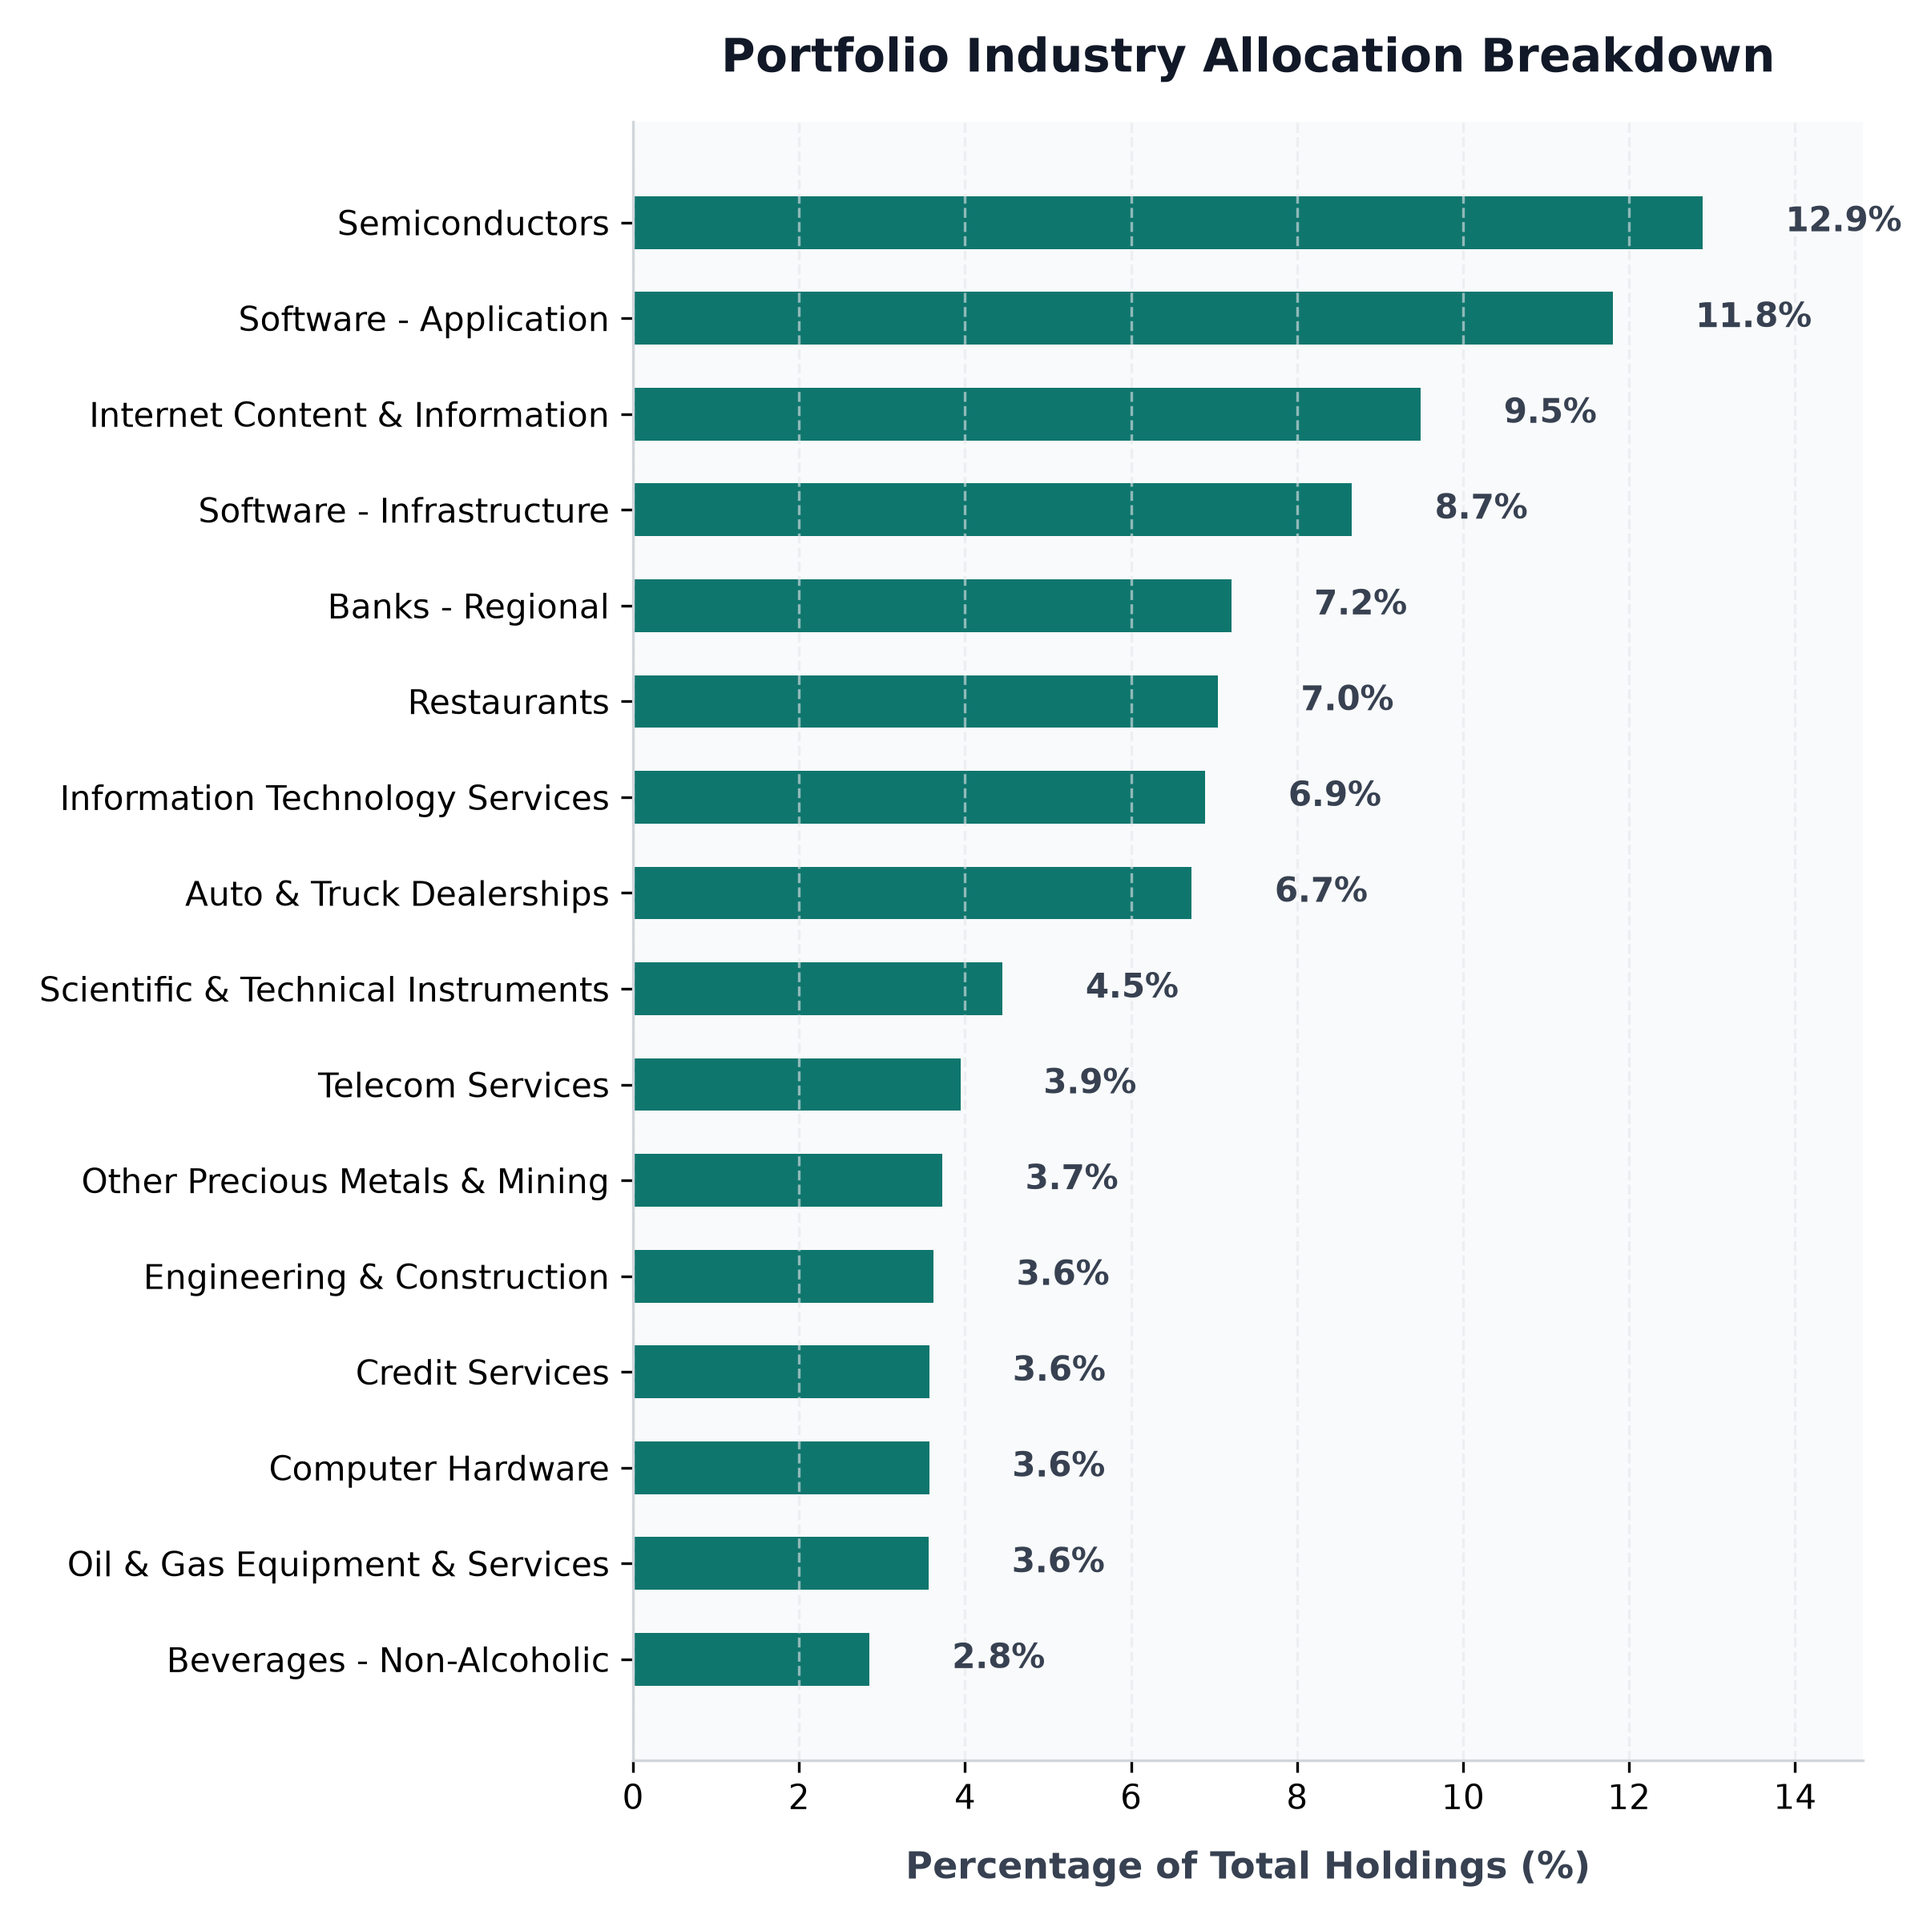
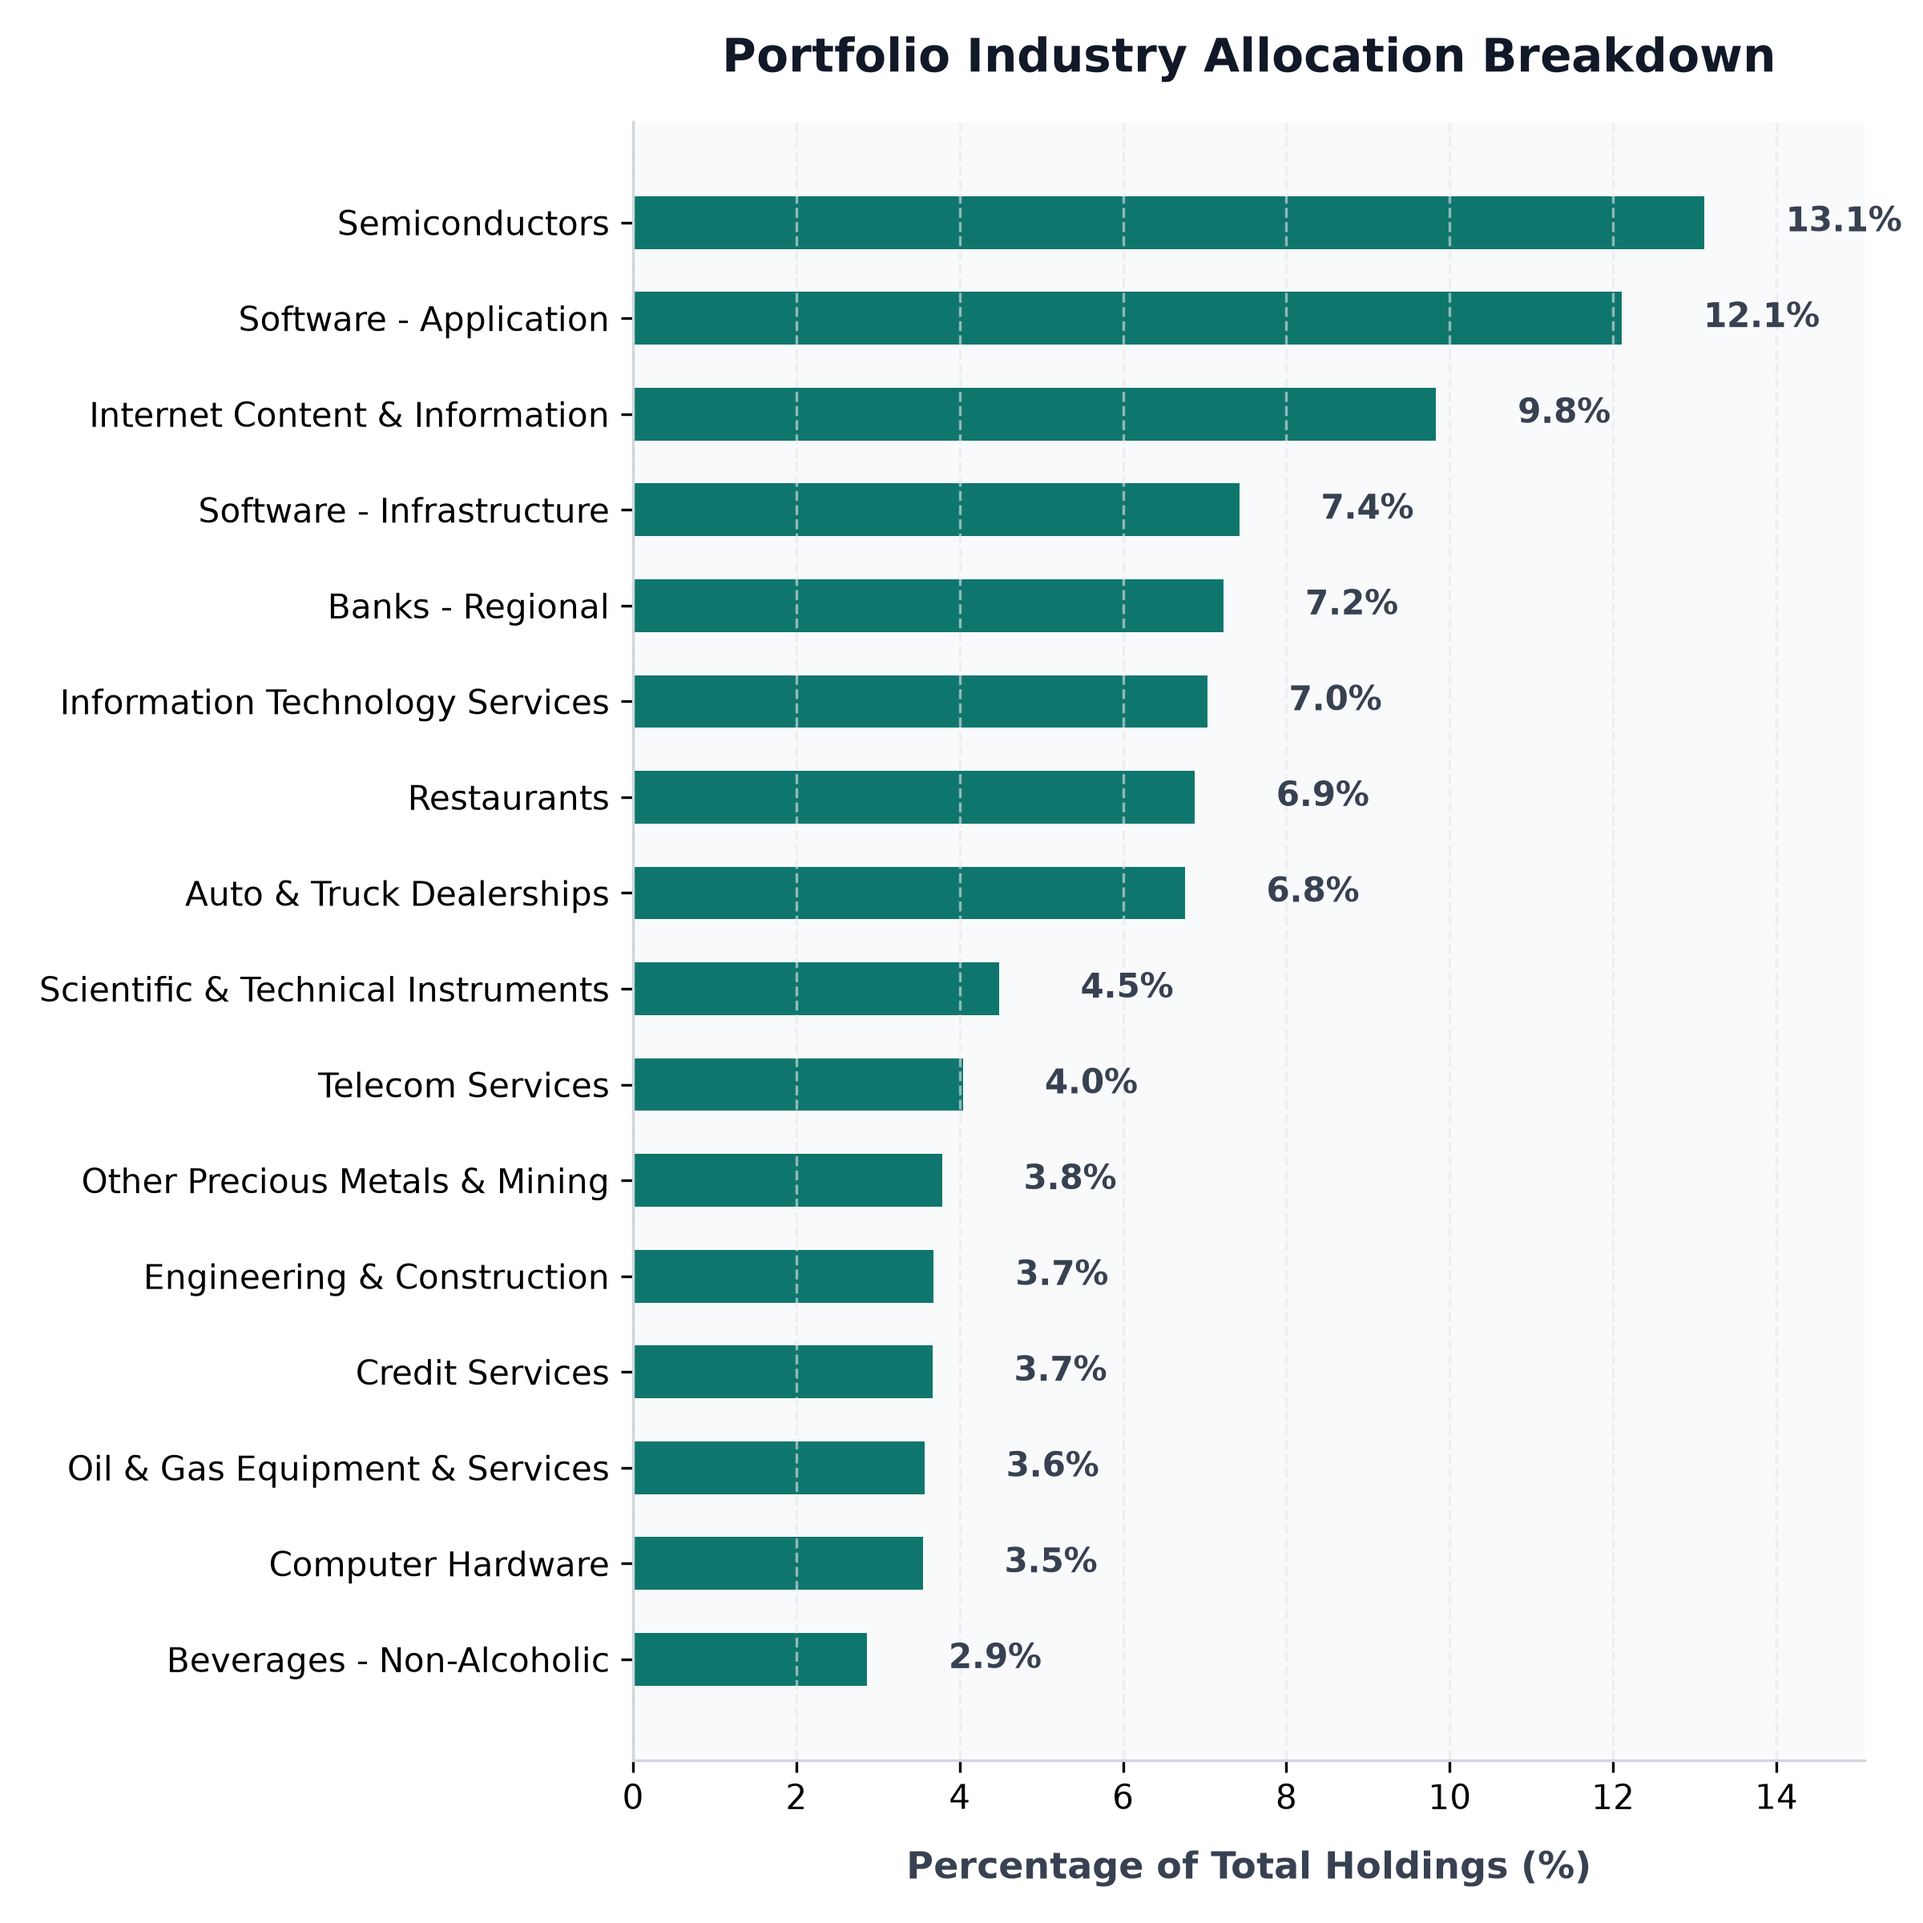
auto: daily portfolio status update - 2026-08-07 06:05:13

diff --git a/src/content/posts/portfolio-performance.md b/src/content/posts/portfolio-performance.md
@@ -1,6 +1,6 @@
 ---
 title: "BadOmen Algorithmic Portfolio Performance & PnL Report"
-pubDatetime: 2026-08-07T00:00:14.408216+08:00
+pubDatetime: 2026-08-07T06:05:13.153862+08:00
 description: "Live performance metrics, active holdings, and historic equity curve for the BadOmen automated paper trading portfolio."
 featured: true
 draft: false
@@ -16,11 +16,11 @@ Welcome to the live performance dashboard for **BadOmen**, our automated algorit
 ## 📊 Portfolio Summary
 | Performance Metric | Value | description |
 | :--- | :--- | :--- |
-| **Net Portfolio Equity** | **$100,334.39** | Total current liquidation value of cash and stock holdings |
-| **Total Unrealized P&L** | 🔴 **$-142.86** (-0.14%) | Total return of current open holdings |
-| **Cash Balance** | $72,278.40 | Idle reserve currency available for limit orders |
-| **Buying Power** | $367,670.38 | Margin-backed buying power for entry allocations |
-| **Report Updated** | `2026-08-07 00:00:14 (SGT)` | Timestamp of daily execution and sync run |
+| **Net Portfolio Equity** | **$100,214.28** | Total current liquidation value of cash and stock holdings |
+| **Total Unrealized P&L** | 🔴 **$-363.90** (-0.36%) | Total return of current open holdings |
+| **Cash Balance** | $72,667.60 | Idle reserve currency available for limit orders |
+| **Buying Power** | $367,801.10 | Margin-backed buying power for entry allocations |
+| **Report Updated** | `2026-08-07 06:05:13 (SGT)` | Timestamp of daily execution and sync run |
 
 ## 📈 Net Equity Growth Curve
 The chart below illustrates the historical performance of the account starting from our baseline capital funding of $100,000.00.
@@ -35,36 +35,37 @@ The chart below illustrates the exposure of our currently held active positions 
 ## 💼 Current Position Holdings
 | Ticker | Industry | Shares Owned | Average Entry Cost | Current Price | Unrealized P&L | Return (%) |
 | :--- | :--- | :--- | :--- | :--- | :--- | :--- |
-| **AN** | Auto & Truck Dealerships | 5 | $188.51 | $213.41 | 🟢 +$124.53 | +13.21% |
-| **AVGO** | Semiconductors | 1 | $385.71 | $422.60 | 🟢 +$36.89 | +9.56% |
-| **BVN** | Other Precious Metals & Mining | 32 | $31.88 | $32.66 | 🟢 +$25.12 | +2.46% |
-| **CELH** | Beverages - Non-Alcoholic | 33 | $29.71 | $24.18 | 🔴 $-182.74 | -18.64% |
-| **DUOL** | Software - Application | 14 | $131.04 | $123.44 | 🔴 $-106.46 | -5.80% |
-| **FIS** | Information Technology Services | 23 | $41.79 | $42.51 | 🟢 +$16.56 | +1.72% |
-| **GDDY** | Software - Infrastructure | 6 | $76.21 | $89.17 | 🟢 +$77.76 | +17.01% |
-| **GDS** | Information Technology Services | 30 | $32.77 | $31.89 | 🔴 $-26.55 | -2.70% |
-| **GGAL** | Banks - Regional | 17 | $56.04 | $47.77 | 🔴 $-140.67 | -14.77% |
-| **GOOGL** | Internet Content & Information | 3 | $319.44 | $358.99 | 🟢 +$118.65 | +12.38% |
-| **GPI** | Auto & Truck Dealerships | 3 | $316.15 | $273.74 | 🔴 $-127.23 | -13.41% |
-| **HUBS** | Software - Application | 8 | $221.18 | $197.82 | 🔴 $-186.89 | -10.56% |
-| **ITRI** | Scientific & Technical Instruments | 12 | $81.80 | $104.09 | 🟢 +$267.48 | +27.25% |
-| **KBR** | Engineering & Construction | 27 | $36.23 | $37.60 | 🟢 +$37.04 | +3.79% |
-| **META** | Internet Content & Information | 1 | $568.17 | $587.89 | 🟢 +$19.72 | +3.47% |
-| **NESR** | Oil & Gas Equipment & Services | 34 | $28.74 | $29.40 | 🟢 +$22.44 | +2.30% |
-| **NU** | Banks - Regional | 85 | $11.60 | $14.23 | 🟢 +$223.67 | +22.69% |
-| **ON** | Semiconductors | 10 | $90.45 | $79.01 | 🔴 $-114.45 | -12.65% |
-| **ORCL** | Software - Infrastructure | 5 | $181.95 | $144.72 | 🔴 $-186.12 | -20.46% |
-| **PATH** | Software - Infrastructure | 84 | $10.25 | $13.94 | 🟢 +$309.54 | +35.95% |
-| **PYPL** | Credit Services | 17 | $56.05 | $58.98 | 🟢 +$49.73 | +5.22% |
-| **QCOM** | Semiconductors | 15 | $193.68 | $160.15 | 🔴 $-503.04 | -17.32% |
-| **SMCI** | Computer Hardware | 33 | $29.25 | $30.33 | 🟢 +$35.64 | +3.69% |
-| **T** | Telecom Services | 47 | $20.85 | $23.55 | 🟢 +$126.67 | +12.93% |
-| **WEN** | Restaurants | 257 | $8.02 | $7.69 | 🔴 $-85.77 | -4.16% |
-| **ZG** | Internet Content & Information | 31 | $31.35 | $32.18 | 🟢 +$25.63 | +2.64% |
+| **AN** | Auto & Truck Dealerships | 5 | $188.51 | $211.33 | 🟢 +$114.11 | +12.11% |
+| **AVGO** | Semiconductors | 1 | $385.71 | $420.41 | 🟢 +$34.70 | +9.00% |
+| **BVN** | Other Precious Metals & Mining | 32 | $31.88 | $32.56 | 🟢 +$21.92 | +2.15% |
+| **CELH** | Beverages - Non-Alcoholic | 33 | $29.71 | $23.91 | 🔴 $-191.49 | -19.53% |
+| **DUOL** | Software - Application | 14 | $131.04 | $122.46 | 🔴 $-120.18 | -6.55% |
+| **FIS** | Information Technology Services | 23 | $41.79 | $42.14 | 🟢 +$8.05 | +0.84% |
+| **GDDY** | Software - Infrastructure | 6 | $76.21 | $90.35 | 🟢 +$84.84 | +18.55% |
+| **GDS** | Information Technology Services | 30 | $32.77 | $32.25 | 🔴 $-15.60 | -1.59% |
+| **GGAL** | Banks - Regional | 17 | $56.04 | $46.73 | 🔴 $-158.26 | -16.61% |
+| **GOOGL** | Internet Content & Information | 3 | $319.44 | $358.36 | 🟢 +$116.76 | +12.18% |
+| **GPI** | Auto & Truck Dealerships | 3 | $316.15 | $268.06 | 🔴 $-144.27 | -15.21% |
+| **HUBS** | Software - Application | 8 | $221.18 | $202.62 | 🔴 $-148.49 | -8.39% |
+| **ITRI** | Scientific & Technical Instruments | 12 | $81.80 | $102.82 | 🟢 +$252.24 | +25.70% |
+| **KBR** | Engineering & Construction | 27 | $36.23 | $37.57 | 🟢 +$36.10 | +3.69% |
+| **META** | Internet Content & Information | 1 | $568.17 | $588.65 | 🟢 +$20.48 | +3.60% |
+| **NESR** | Oil & Gas Equipment & Services | 34 | $28.74 | $28.91 | 🟢 +$5.78 | +0.59% |
+| **NU** | Banks - Regional | 85 | $11.60 | $14.09 | 🟢 +$211.64 | +21.47% |
+| **ON** | Semiconductors | 10 | $90.45 | $78.59 | 🔴 $-118.65 | -13.12% |
+| **ORCL** | Software - Infrastructure | 5 | $181.95 | $143.22 | 🔴 $-193.63 | -21.28% |
+| **PATH** | Software - Infrastructure | 56 | $10.25 | $14.04 | 🟢 +$212.24 | +36.98% |
+| **PYPL** | Credit Services | 17 | $56.05 | $59.38 | 🟢 +$56.68 | +5.95% |
+| **QCOM** | Semiconductors | 15 | $193.68 | $160.42 | 🔴 $-498.97 | -17.18% |
+| **SMCI** | Computer Hardware | 33 | $29.25 | $29.61 | 🟢 +$11.88 | +1.23% |
+| **T** | Telecom Services | 47 | $20.85 | $23.69 | 🟢 +$133.48 | +13.62% |
+| **WEN** | Restaurants | 257 | $8.02 | $7.37 | 🔴 $-168.01 | -8.15% |
+| **ZG** | Internet Content & Information | 31 | $31.35 | $33.70 | 🟢 +$72.75 | +7.49% |
 
 ## 🔴 Recent Realized Trades
 | Ticker | Shares Sold | Entry Price | Exit Price | Strategy Trigger | Realized Return | Exit Date |
 | :--- | :--- | :--- | :--- | :--- | :--- | :--- |
+| **PATH** | 28 | $10.25 | $13.90 | Tier 1: Profit Lock (Up 30-50%) | 🟢 **+$+102.20** (++35.61%) | 2026-08-07 |
 | **PATH** | 41 | $10.25 | $13.93 | Tier 1: Profit Lock (Up 30-50%) | 🟢 **+$+150.88** (++35.90%) | 2026-08-06 |
 | **PATH** | 62 | $10.25 | $13.68 | Tier 1: Profit Lock (Up 30-50%) | 🟢 **+$+212.66** (++33.46%) | 2026-08-05 |
 | **GDDY** | 2 | $76.21 | $104.43 | Tier 1: Profit Lock (Up 30-50%) | 🟢 **+$+56.44** (++37.03%) | 2026-07-30 |
